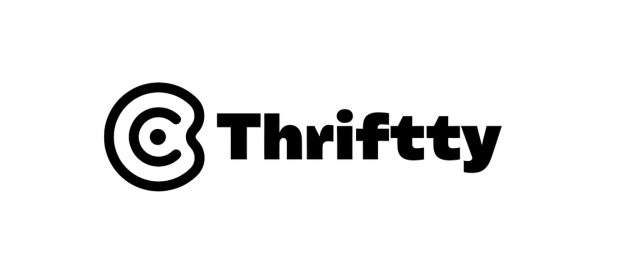
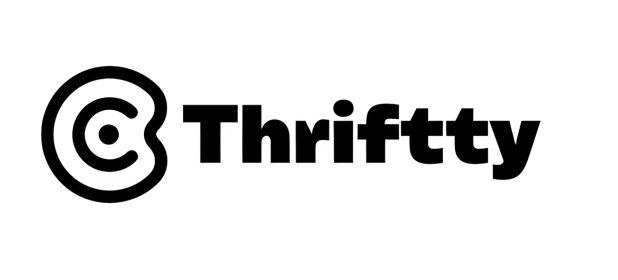
Login

Changed region(s): [[0.0615, 0.2286, 0.8916, 0.7429]]

diff --git a/thrifty-frontend/src/styles/navbar.css b/thrifty-frontend/src/styles/navbar.css
@@ -10,20 +10,22 @@
 }
 
 .nav-logo{
-    height: 70px;
+    height: 100px;
     width: 170px;
     align-items: center;
     justify-items: center;
+    margin-bottom: 20px;
 }
 .logo12{
     display: flex;
-    background-image: url("../images/plp.png");
-    background-size: cover;
-    height:50px ;
-    margin-top: 8px;
+    background-image: url("../images/pop.png");
+    background-size: contain;
+    height:100% ;
+    margin-top: 20px;
     align-items: center;
     justify-content: center;
     background-repeat: no-repeat;
+
 }
 
 

diff --git a/thrifty-frontend/src/pages/footer.jsx b/thrifty-frontend/src/pages/footer.jsx
@@ -53,7 +53,7 @@ const Footer = () => {
             </div>
 
             <div className="foot-panel3">
-                <div className="logo"></div>
+                <div className="logo25"></div>
             </div>
 
             <div className="foot-panel4">

diff --git a/thrifty-frontend/src/styles/signup.css b/thrifty-frontend/src/styles/signup.css
@@ -4,8 +4,8 @@
     justify-content: center;
     /*place-items: center;*/
 
-    width: 350px;
-    height: 600px;
+    width: 100%;
+    height: 100%;
     padding: 25px;
     background-color: #161616;
     box-shadow: 0 15px 60px #00FF7F;

diff --git a/thrifty-frontend/src/styles/footer.css b/thrifty-frontend/src/styles/footer.css
@@ -58,8 +58,8 @@ ul a {
 }
 
 
-.logo{
-    background-image: url("../images/Logo1.png");
+.logo25{
+    background-image: url("../images/pop.png");
     background-size: cover;
     height:60px ;
     width: 200px;
